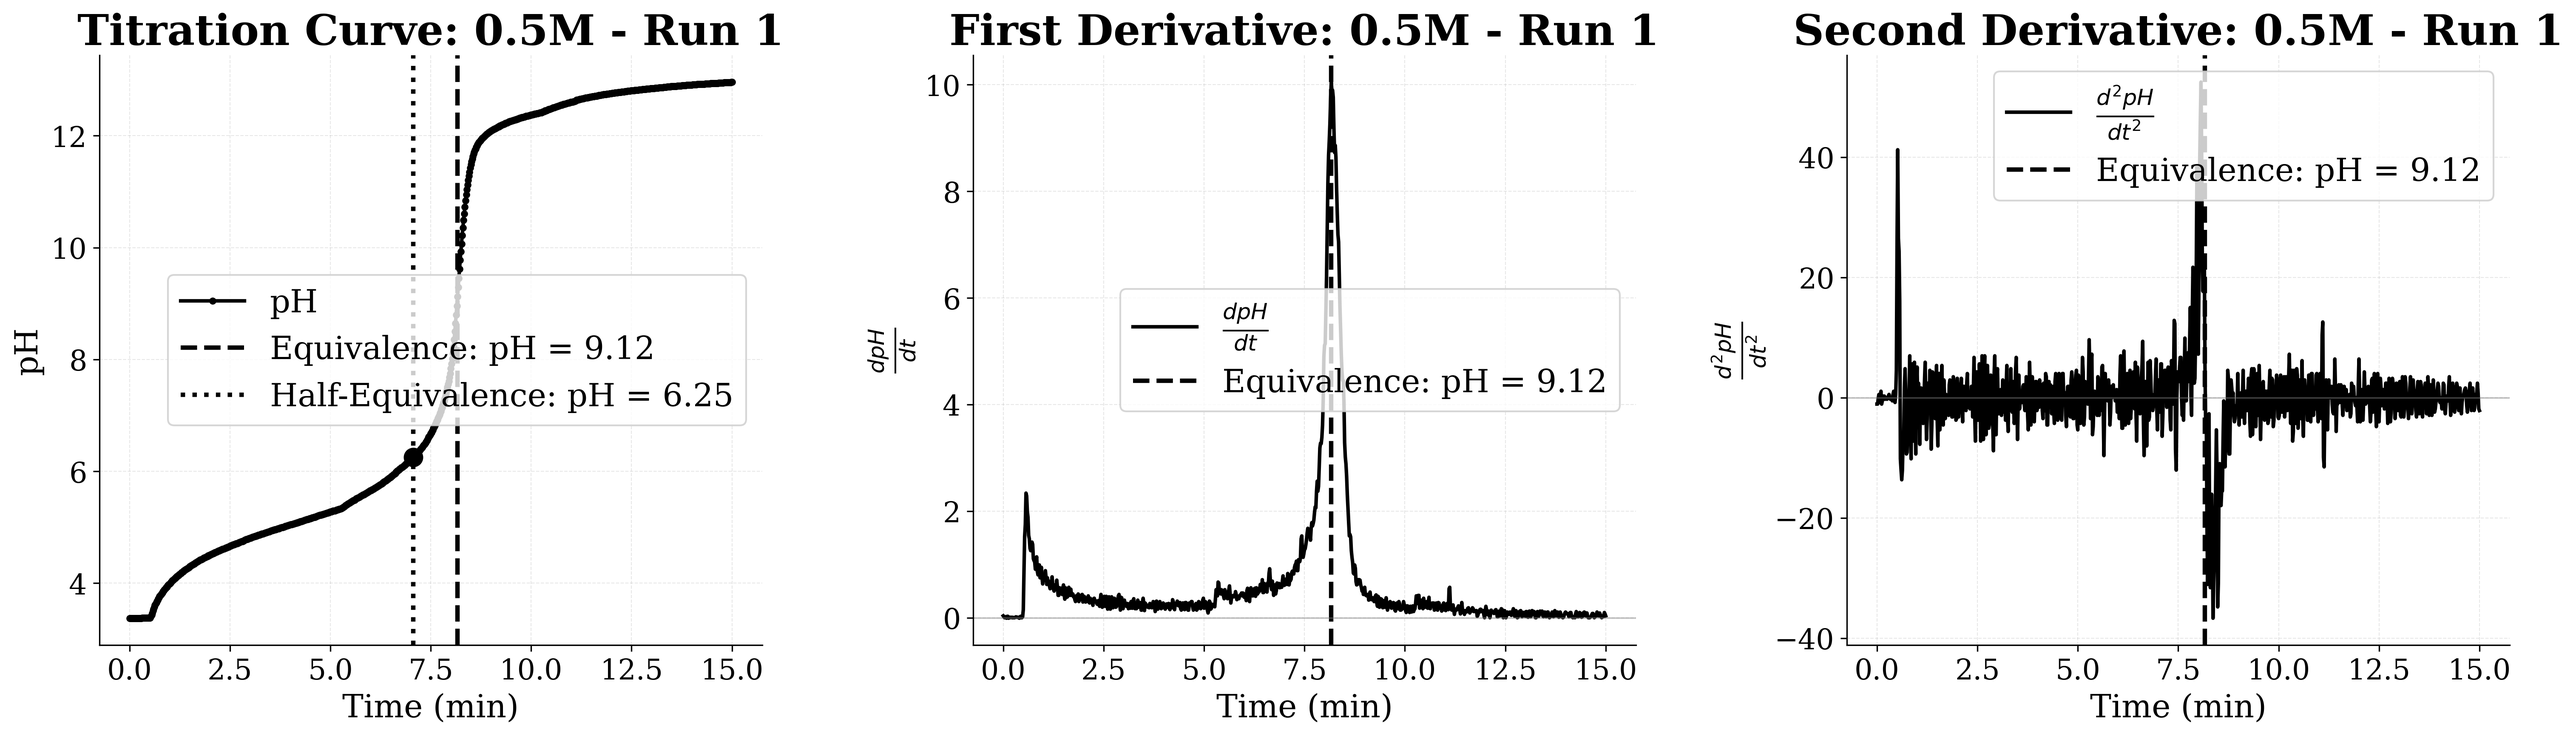
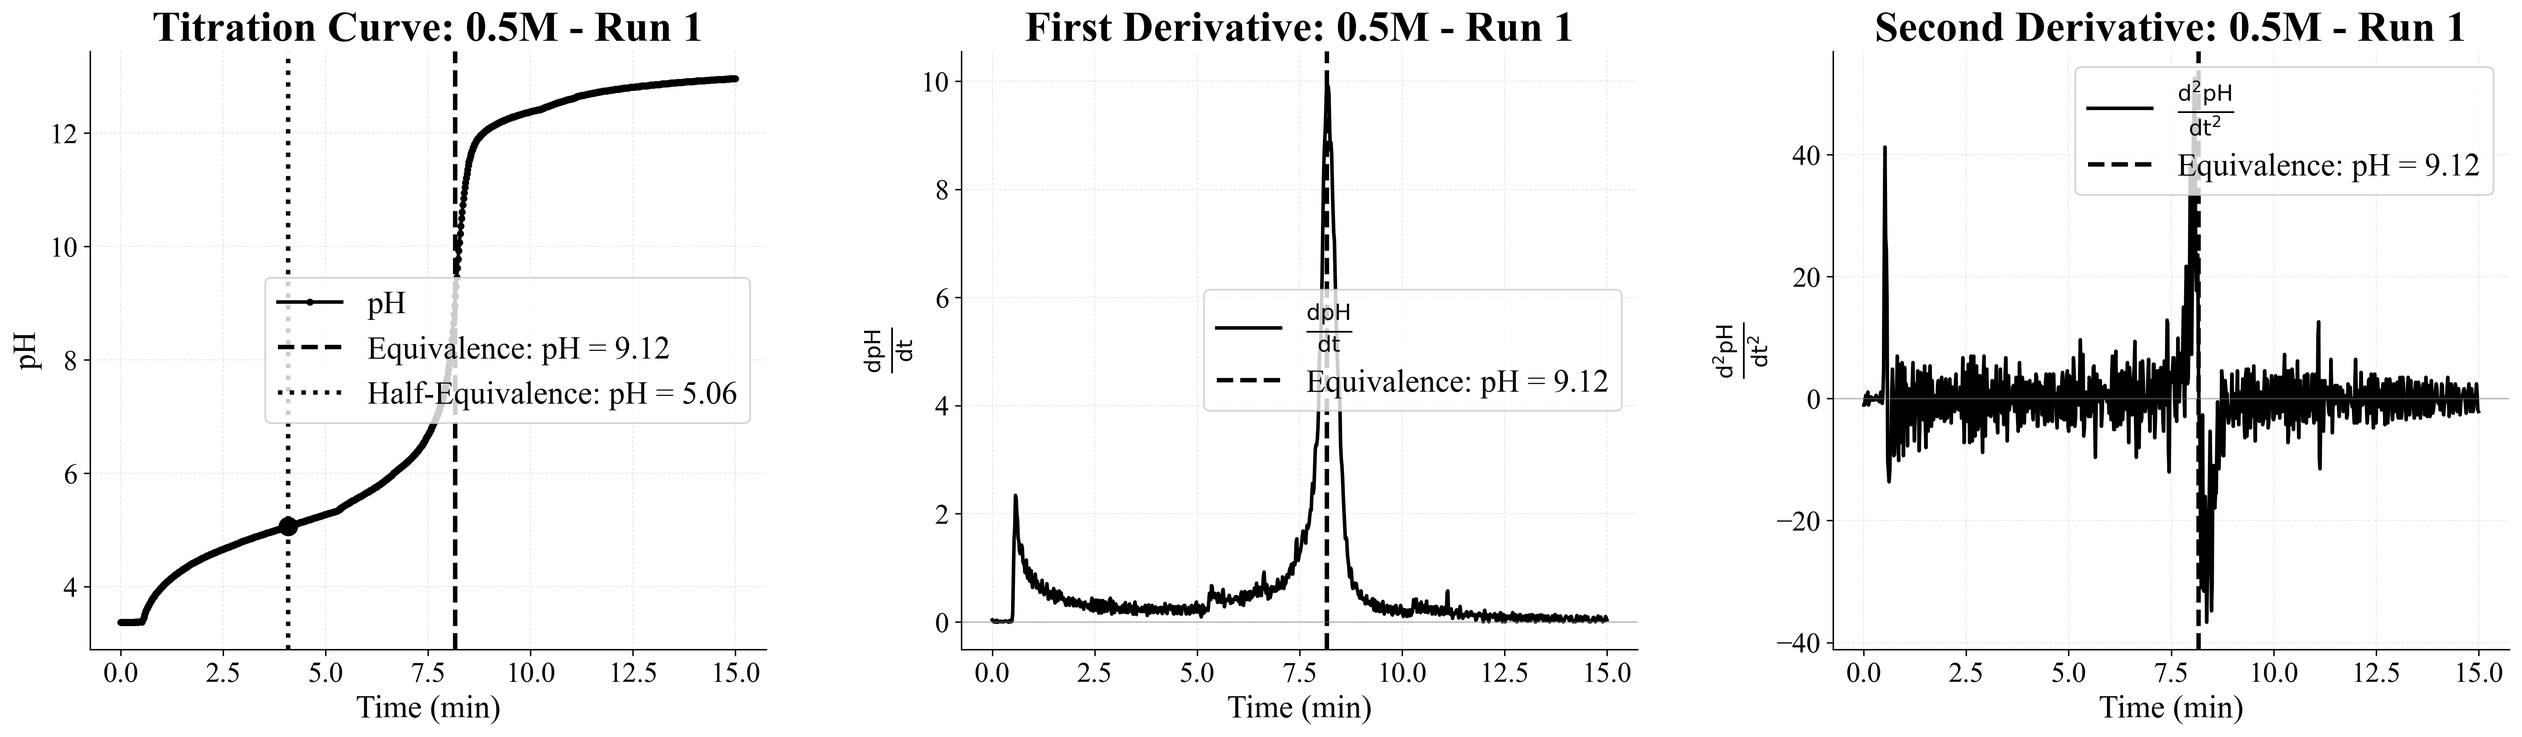
v5

diff --git a/salty/plotting.py b/salty/plotting.py
@@ -45,10 +45,7 @@ def plot_titration_curves(results, output_dir="output"):
         run_name = res["run_name"]
         color = colors[int(res["nacl_conc"])]
 
-        # Create individual figure with three subplots (titration curve, first derivative, second derivative)
         fig, (ax1, ax2, ax3) = plt.subplots(1, 3, figsize=(20, 6), sharex=True)
-
-        # Left panel: Titration curve
         ax1.plot(
             df["Time (min)"],
             df["pH"],
@@ -88,7 +85,6 @@ def plot_titration_curves(results, output_dir="output"):
         ax1.spines["top"].set_visible(False)
         ax1.spines["right"].set_visible(False)
 
-        # Middle panel: First derivative
         ax2.plot(
             df["Time (min)"],
             df["dpH/dt"],
@@ -114,7 +110,6 @@ def plot_titration_curves(results, output_dir="output"):
         ax2.spines["top"].set_visible(False)
         ax2.spines["right"].set_visible(False)
 
-        # Right panel: Second derivative
         ax3.plot(
             df["Time (min)"],
             df["d2pH/dt2"],
@@ -140,9 +135,7 @@ def plot_titration_curves(results, output_dir="output"):
         ax3.spines["top"].set_visible(False)
         ax3.spines["right"].set_visible(False)
 
-        plt.tight_layout(w_pad=3.0)  # Add horizontal spacing between subplots
-
-        # Save individual figure with sanitized filename
+        plt.tight_layout(w_pad=3.0)
         sanitized_name = run_name.replace(" ", "_").replace("/", "_")
         output_path = os.path.join(output_dir, f"titration_curve_{sanitized_name}.png")
         fig.savefig(output_path, dpi=300, bbox_inches="tight")
@@ -176,7 +169,6 @@ def plot_statistical_summary(stats_df, results_df, output_dir="output"):
         conc = row["NaCl Concentration (M)"]
         color = colors[i]
 
-        # Plot mean with error bars
         ax1.errorbar(
             conc,
             row["Mean pKa"],
@@ -191,7 +183,6 @@ def plot_statistical_summary(stats_df, results_df, output_dir="output"):
             elinewidth=2.5,
         )
 
-        # Plot individual runs
         subset = results_df[results_df["NaCl Concentration (M)"] == conc]
         ax1.plot(
             [conc] * len(subset),
@@ -215,11 +206,16 @@ def plot_statistical_summary(stats_df, results_df, output_dir="output"):
     )
     ax1.grid(True, alpha=0.3, linestyle="--", linewidth=0.5)
     ax1.tick_params(labelsize=14)
-    ax1.legend(fontsize=16, loc="center left", bbox_to_anchor=(1.1, 0.975), frameon=True, shadow=True)
+    ax1.legend(
+        fontsize=16,
+        loc="center left",
+        bbox_to_anchor=(1.1, 0.975),
+        frameon=True,
+        shadow=True,
+    )
     ax1.spines["top"].set_visible(False)
     ax1.spines["right"].set_visible(False)
 
-    # Add value annotations
     for _, row in stats_df.iterrows():
         if pd.notna(row["SD"]):
             label = f"{row['Mean pKa']:.3f} ± {row['SD']:.3f}"

diff --git a/salty/analysis.py b/salty/analysis.py
@@ -40,12 +40,8 @@ def analyze_titration(df, run_name):
     df = calculate_derivatives(df)
     eq_time, eq_pH = find_equivalence_point(df)
 
-    initial_pH = df["pH"].iloc[0]
-    target_pH = (initial_pH + eq_pH) / 2
-    ph_diff = np.abs(df["pH"] - target_pH)
-    half_eq_idx = ph_diff.idxmin()
-    half_eq_time = df.loc[half_eq_idx, "Time (min)"]
-    half_eq_pH = df.loc[half_eq_idx, "pH"]
+    half_eq_time = eq_time / 2
+    half_eq_pH = np.interp(half_eq_time, df["Time (min)"], df["pH"])
 
     return {
         "run_name": run_name,

diff --git a/main.py b/main.py
@@ -44,7 +44,7 @@ def main():
         ("data/ms besant go brr brr v2- 0.0m nacl.csv", 0.0),
         ("data/ms besant go brr brr- 0.5m nacl.csv", 0.5),
         ("data/ms besant go brr brr- 0.8m nacl.csv", 0.8),
-        ("data/ms besant go brr - 1m nacl.csv", 1.0),
+        # ("data/ms besant go brr - 1m nacl.csv", 1.0),
         ("data/ms besant go brr brr- 1.0m nacl.csv", 1.0),
     ]
     logging.info("Configured %d input files for analysis", len(files))
